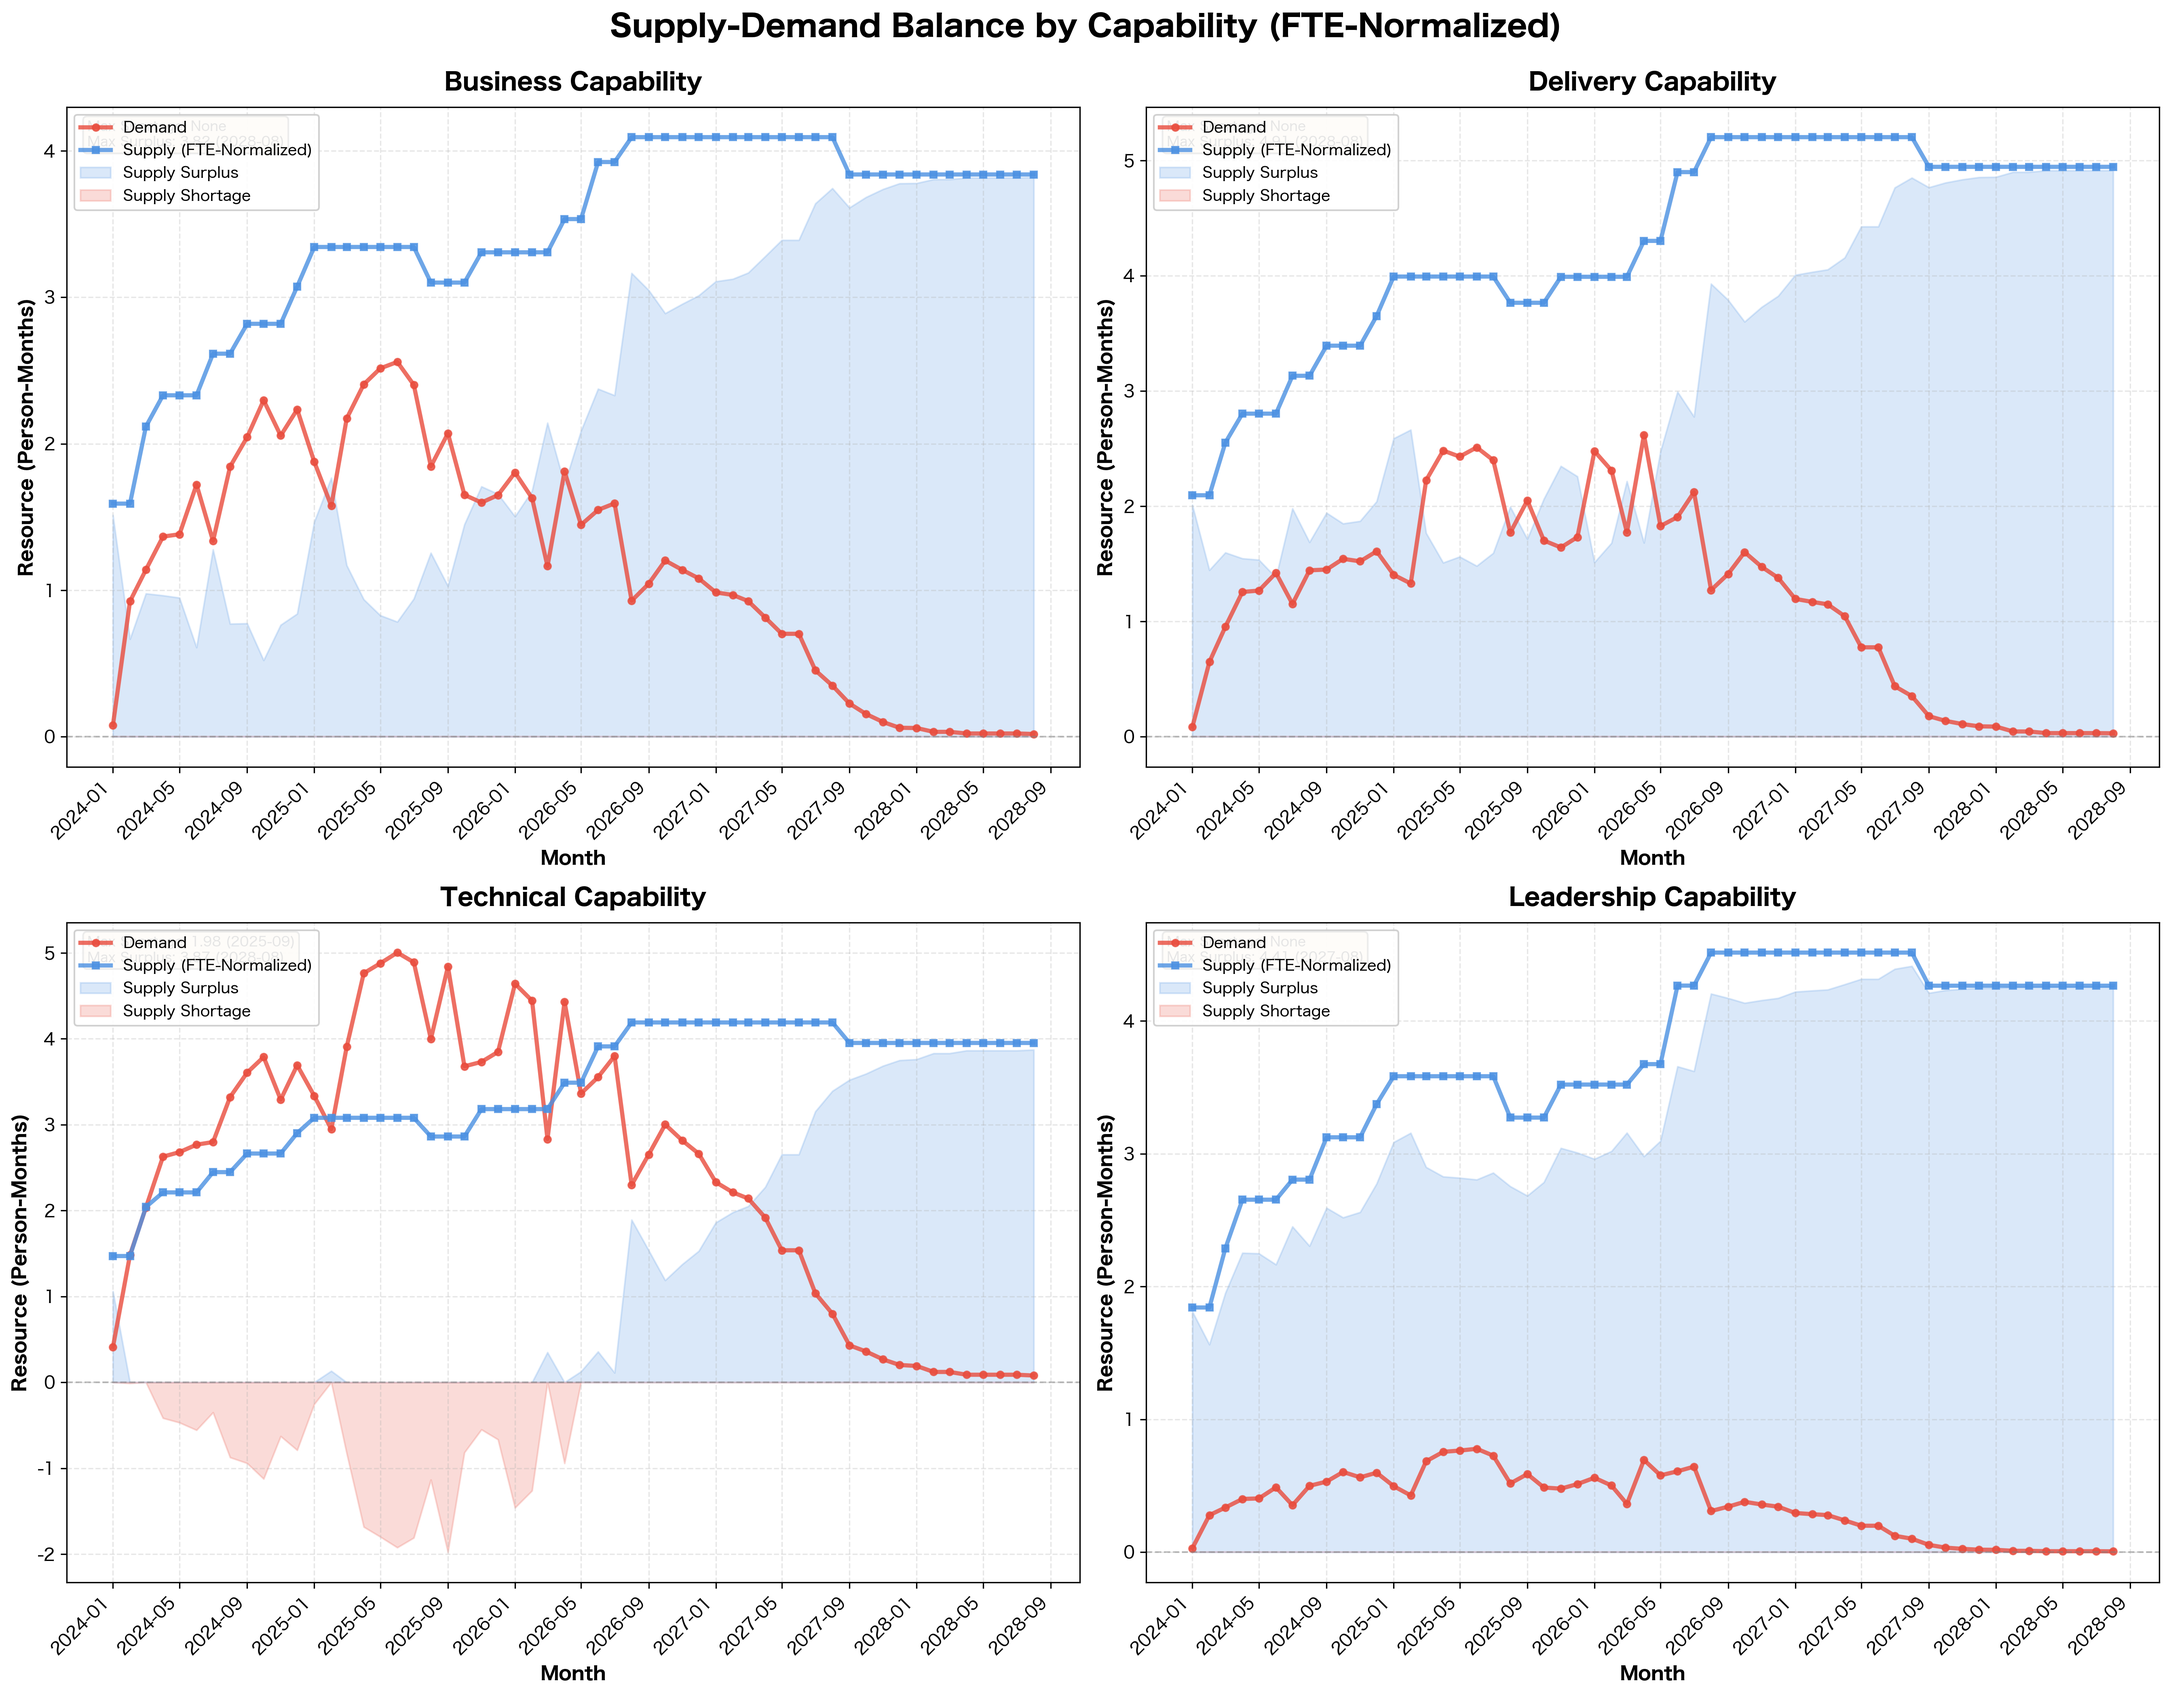
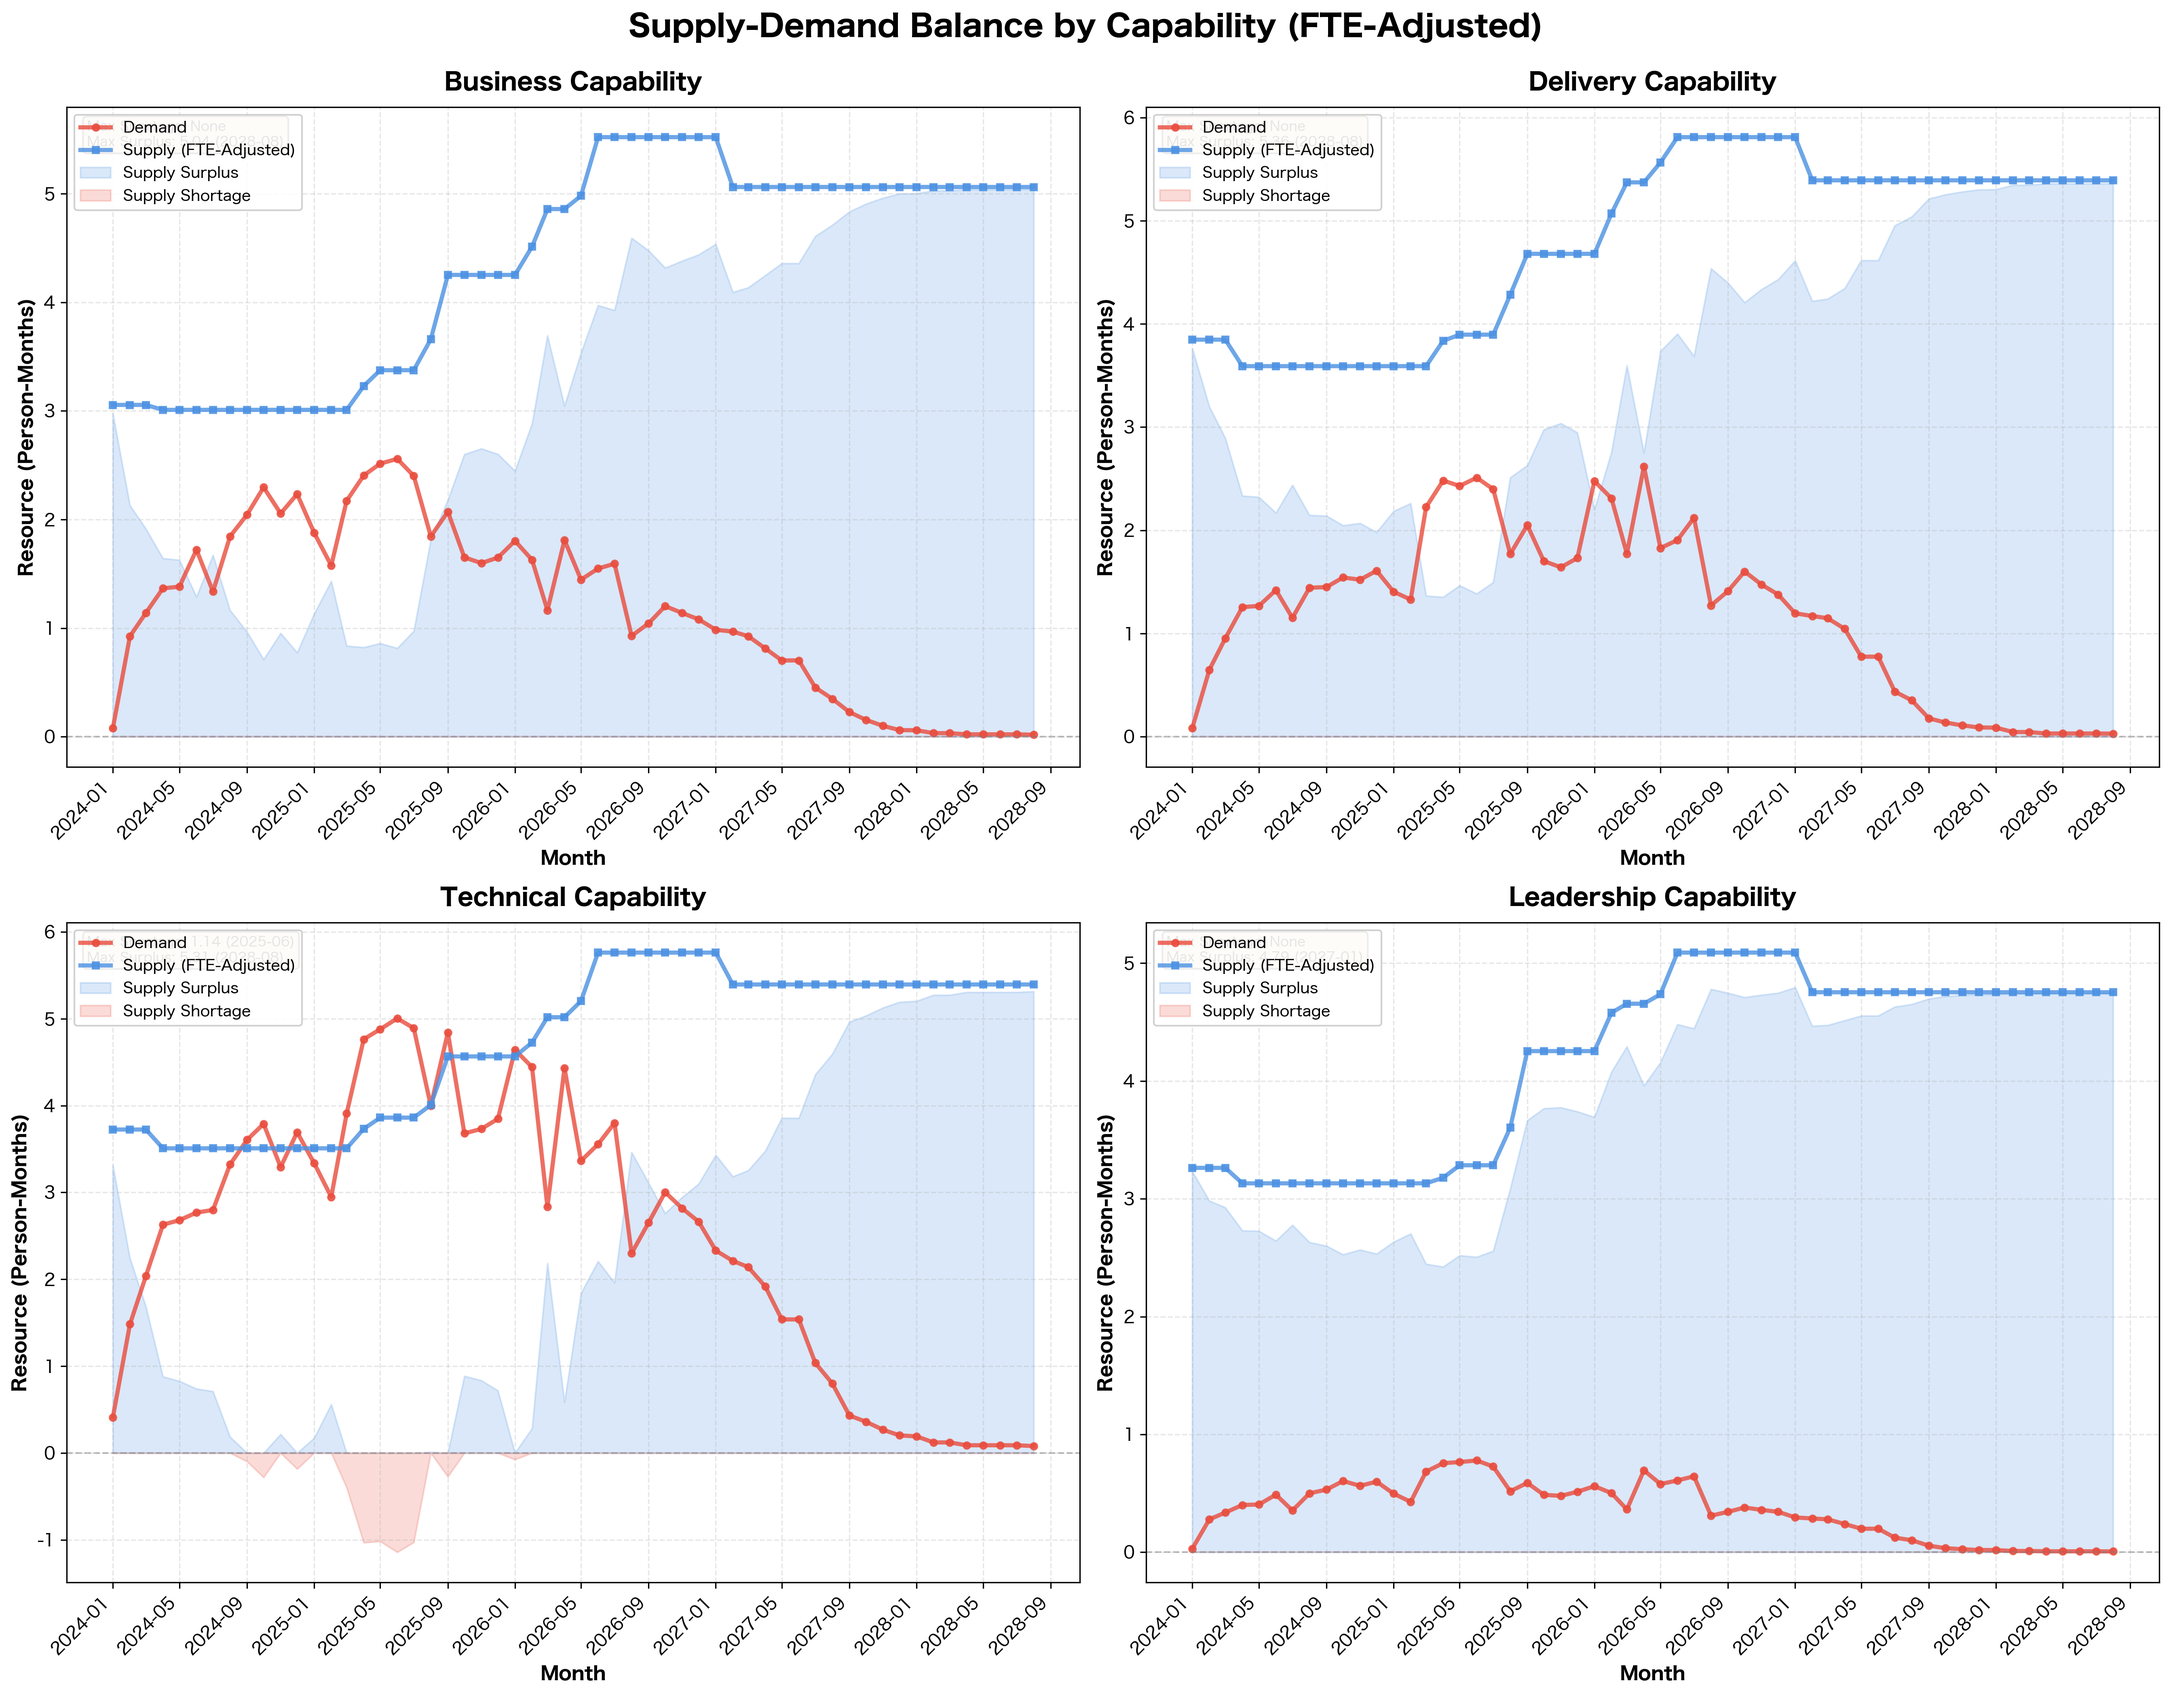
supply fte

diff --git a/codes/demand-simulator/demand-supply_visualizer/visualize_supply_demand.py b/codes/demand-simulator/demand-supply_visualizer/visualize_supply_demand.py
@@ -72,51 +72,45 @@ supply_df['稼働終了月'] = pd.to_datetime(supply_df['稼働終了月'])
 max_date = pd.Timestamp('2030-12-01')
 supply_df['稼働終了月'] = supply_df['稼働終了月'].fillna(max_date)
 
-# ★★★ FTE正規化: 各社員のケイパビリティ合計を1.0にする ★★★
+# ★★★ FTE考慮型: 稼働期間FTEを考慮した実効供給能力を計算 ★★★
 print("\n" + "="*60)
-print("FTE正規化処理")
+print("FTE考慮型の供給能力計算")
 print("="*60)
 
-supply_df['ケイパビリティ合計'] = (
-    supply_df['ビジネスケイパビリティ'] + 
-    supply_df['デリバリケイパビリティ'] + 
-    supply_df['テクニカルケイパビリティ'] + 
-    supply_df['リーダーシップケイパビリティ']
+print(f"稼働期間FTEの範囲: 最小={supply_df['稼働期間FTE'].min():.2f}, "
+      f"最大={supply_df['稼働期間FTE'].max():.2f}, "
+      f"平均={supply_df['稼働期間FTE'].mean():.2f}")
+
+# 実効供給能力 = ケイパビリティ × 稼働期間FTE
+# （例：Business=5, FTE=0.5 → 月次供給=2.5）
+supply_df['Business_effective'] = supply_df['ビジネスケイパビリティ'] * supply_df['稼働期間FTE']
+supply_df['Delivery_effective'] = supply_df['デリバリケイパビリティ'] * supply_df['稼働期間FTE']
+supply_df['Technical_effective'] = supply_df['テクニカルケイパビリティ'] * supply_df['稼働期間FTE']
+supply_df['Leadership_effective'] = supply_df['リーダーシップケイパビリティ'] * supply_df['稼働期間FTE']
+
+# 実効供給能力の合計を確認
+supply_df['実効供給合計'] = (
+    supply_df['Business_effective'] + 
+    supply_df['Delivery_effective'] + 
+    supply_df['Technical_effective'] + 
+    supply_df['Leadership_effective']
 )
 
-print(f"正規化前のケイパビリティ合計: 最小={supply_df['ケイパビリティ合計'].min():.2f}, "
-      f"最大={supply_df['ケイパビリティ合計'].max():.2f}, "
-      f"平均={supply_df['ケイパビリティ合計'].mean():.2f}")
-
-# 正規化（各社員のケイパビリティを合計で割る）
-supply_df['Business_normalized'] = supply_df['ビジネスケイパビリティ'] / supply_df['ケイパビリティ合計']
-supply_df['Delivery_normalized'] = supply_df['デリバリケイパビリティ'] / supply_df['ケイパビリティ合計']
-supply_df['Technical_normalized'] = supply_df['テクニカルケイパビリティ'] / supply_df['ケイパビリティ合計']
-supply_df['Leadership_normalized'] = supply_df['リーダーシップケイパビリティ'] / supply_df['ケイパビリティ合計']
-
-# 正規化後の合計を確認
-supply_df['正規化後合計'] = (
-    supply_df['Business_normalized'] + 
-    supply_df['Delivery_normalized'] + 
-    supply_df['Technical_normalized'] + 
-    supply_df['Leadership_normalized']
-)
-
-print(f"正規化後のケイパビリティ合計: 最小={supply_df['正規化後合計'].min():.2f}, "
-      f"最大={supply_df['正規化後合計'].max():.2f}, "
-      f"平均={supply_df['正規化後合計'].mean():.2f}")
+print(f"実効供給能力の合計: 最小={supply_df['実効供給合計'].min():.2f}, "
+      f"最大={supply_df['実効供給合計'].max():.2f}, "
+      f"平均={supply_df['実効供給合計'].mean():.2f}")
 print("="*60 + "\n")
 
 def calculate_monthly_supply(row):
-    """月次供給を計算（FTE正規化版）"""
+    """月次供給を計算（FTE考慮版）"""
     start_date = row['稼働開始月']
     end_date = row['稼働終了月']
     
-    # 正規化されたケイパビリティを使用（合計=1.0 FTE）
-    business = row['Business_normalized']
-    delivery = row['Delivery_normalized']
-    technical = row['Technical_normalized']
-    leadership = row['Leadership_normalized']
+    # FTEを考慮した実効供給能力を使用
+    business = row['Business_effective']
+    delivery = row['Delivery_effective']
+    technical = row['Technical_effective']
+    leadership = row['Leadership_effective']
     
     month_list = pd.date_range(start=start_date, end=end_date, freq='MS')
     
@@ -171,7 +165,7 @@ balance = supply_complete - demand_complete
 
 # ========== グラフ作成 ==========
 fig, axes = plt.subplots(2, 2, figsize=(18, 14))
-fig.suptitle('Supply-Demand Balance by Capability (FTE-Normalized)', fontsize=18, fontweight='bold', y=0.995)
+fig.suptitle('Supply-Demand Balance by Capability (FTE-Adjusted)', fontsize=18, fontweight='bold', y=0.995)
 
 colors_demand = '#E94B3C'  # 赤（需要）
 colors_supply = '#4A90E2'  # 青（供給）
@@ -185,7 +179,7 @@ for idx, capability in enumerate(capabilities):
            label='Demand', linewidth=2.5, marker='o', markersize=4, 
            color=colors_demand, alpha=0.8)
     ax.plot(supply_complete.index, supply_complete[capability], 
-           label='Supply (FTE-Normalized)', linewidth=2.5, marker='s', markersize=4, 
+           label='Supply (FTE-Adjusted)', linewidth=2.5, marker='s', markersize=4, 
            color=colors_supply, alpha=0.8)
     
     # バランスを面グラフで表示（供給不足は赤、供給過剰は青）
@@ -241,7 +235,7 @@ plt.savefig('png/supply_demand_balance.png', dpi=300, bbox_inches='tight')
 print("需給バランスグラフを作成しました: png/supply_demand_balance.png")
 
 # ========== 統計情報の出力 ==========
-print("\n=== 需給バランス統計情報（FTE正規化版） ===")
+print("\n=== 需給バランス統計情報（FTE考慮版） ===")
 for capability in capabilities:
     print(f"\n【{capability} Capability】")
     
@@ -257,7 +251,7 @@ for capability in capabilities:
     balanced_months = (balance[capability] == 0).sum()
     
     print(f"  平均需要: {avg_demand:.2f} 人月")
-    print(f"  平均供給: {avg_supply:.2f} 人月 (FTE正規化済み)")
+    print(f"  平均供給: {avg_supply:.2f} 人月 (FTE考慮済み)")
     print(f"  平均バランス: {avg_balance:.2f} 人月")
     print(f"  最大不足: {max_shortage:.2f} 人月" + 
           (f" ({balance[capability].idxmin().strftime('%Y年%m月')})" if max_shortage < 0 else ""))
@@ -274,15 +268,17 @@ total_avg_balance = balance.sum(axis=1).mean()
 
 print(f"全ケイパビリティ合計:")
 print(f"  平均総需要: {total_avg_demand:.2f} 人月")
-print(f"  平均総供給: {total_avg_supply:.2f} 人月 (FTE正規化済み)")
+print(f"  平均総供給: {total_avg_supply:.2f} 人月 (FTE考慮済み)")
 print(f"  平均総バランス: {total_avg_balance:.2f} 人月")
 
 # 供給側の実際の人数（FTE）を表示
-print(f"\n=== 供給側の人数（FTE換算） ===")
+print(f"\n=== 供給側の人数（FTE考慮） ===")
 target_month = pd.Timestamp('2025-06-01')
 active_at_target = supply_df[
     (supply_df['稼働開始月'] <= target_month) & 
     (supply_df['稼働終了月'] >= target_month)
 ]
-print(f"2025年6月の稼働社員数: {len(active_at_target)}人 (各1.0 FTE)")
-print(f"  総供給能力: {len(active_at_target):.2f} FTE")
+total_fte = active_at_target['稼働期間FTE'].sum()
+print(f"2025年6月の稼働社員数: {len(active_at_target)}人")
+print(f"  総FTE: {total_fte:.2f}")
+print(f"  平均FTE: {total_fte/len(active_at_target):.2f}" if len(active_at_target) > 0 else "")

diff --git a/codes/demand-simulator/data-generator/modules/supply_data_generator.py b/codes/demand-simulator/data-generator/modules/supply_data_generator.py
@@ -129,6 +129,29 @@ class SupplyDataGenerator:
         # 指定された小数点以下の桁数に丸める
         return round(value, decimal_places)
     
+    def _generate_fte_value(self):
+        """
+        稼働期間FTE値を正規分布で生成（0.2〜0.8の範囲）
+        
+        Returns:
+            float: FTE値（小数点第2位まで）
+        """
+        fte_config = self.settings.get('fte', {})
+        min_val = fte_config.get('min', 0.2)
+        max_val = fte_config.get('max', 0.8)
+        mean = fte_config.get('mean', 0.5)
+        std_dev = fte_config.get('std_dev', 0.15)
+        decimal_places = fte_config.get('decimal_places', 2)
+        
+        # 正規分布に従って値を生成
+        value = random.gauss(mean, std_dev)
+        
+        # 指定された範囲に収める
+        value = max(min_val, min(max_val, value))
+        
+        # 指定された小数点以下の桁数に丸める
+        return round(value, decimal_places)
+    
     def _generate_correlated_capabilities(self):
         """
         相関を考慮したケイパビリティ値を生成
@@ -198,10 +221,14 @@ class SupplyDataGenerator:
             # 相関を考慮したケイパビリティ値を生成
             capabilities = self._generate_correlated_capabilities()
             
+            # 稼働期間FTE値を生成
+            fte_value = self._generate_fte_value()
+            
             record = {
                 '社員ID': self._generate_employee_id(i),
                 '稼働開始月': work_start_month.strftime(month_format),
                 '稼働終了月': work_end_month if work_end_month else '',
+                '稼働期間FTE': fte_value,
                 'ビジネスケイパビリティ': capabilities['ビジネスケイパビリティ'],
                 'デリバリケイパビリティ': capabilities['デリバリケイパビリティ'],
                 'テクニカルケイパビリティ': capabilities['テクニカルケイパビリティ'],
